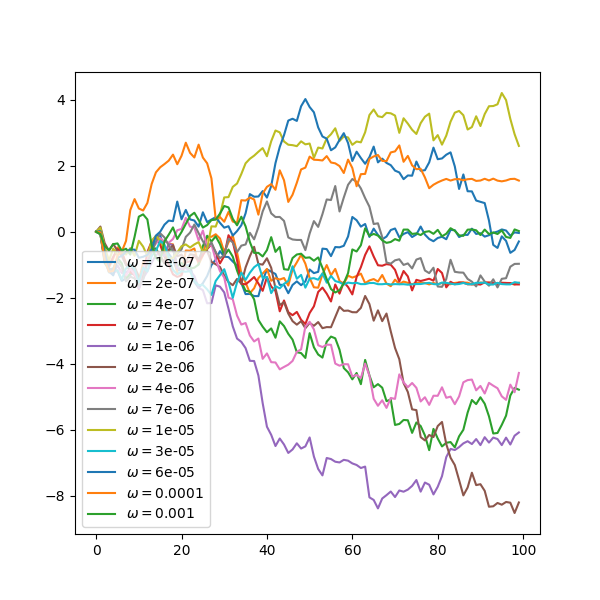
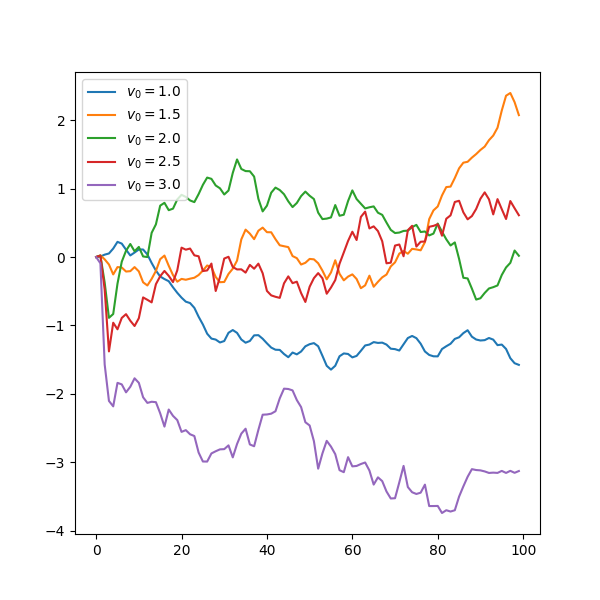
splat push

diff --git a/src/run_sim.py b/src/run_sim.py
@@ -28,9 +28,8 @@ from visualization import animate_particles
 # Create a regular expression pattern to match "yes" or "no" and their variants
 yes_no_pattern = re.compile(r'^(y|yes|yeah|yup|yea|no|n|nope)$', re.IGNORECASE)
 
-TIMESTEPS_PER_FRAME = 1000
 MANY = 20
-assert TIMESTEPS_PER_FRAME % MANY == 0
+
 
 initial_random_key = rand.PRNGKey(678912390)
 
@@ -149,6 +148,9 @@ def run_sim(
     total_time =                        sim_params.get("total_time",DEFAULT_TOTAL_TIME)
     tumble_rate =                       sim_params.get("tumble_rate",DEFAULT_TUMBLE_RATE)
     return_history =                    sim_params.get("return_history", DEFAULT_RETURN_HISTORY)
+    timesteps_per_frame =               sim_params.get("timesteps_per_frame",DEFAULT_TIMESTEPS_PER_FRAME)
+
+    assert timesteps_per_frame % MANY == 0
 
     r_history = []
     theta_history = []
@@ -202,7 +204,7 @@ def run_sim(
 
         rand_key, r, theta, centroids, angles, r_hell = sim_update_chunk
 
-        if step % int(TIMESTEPS_PER_FRAME/MANY) == 0 and return_history:
+        if step % int(timesteps_per_frame/MANY) == 0 and return_history:
             r_history.append(r)
             theta_history.append(theta)
             for i,poly in enumerate(polygons):
@@ -389,25 +391,28 @@ def main():
     angle_hist_fig, angle_hist_ax = plt.subplots(figsize=(6,6))
     com_hist_fig, com_hist_ax = plt.subplots(figsize=(6,6))
 
-    for omega in [1e-7,2e-7,4e-7,7e-7,1e-6,2e-6,4e-6,7e-6,1e-5,3e-5,6e-5,1e-4,1e-3]:
+    for v0 in [1.,1.5,2.,2.5,3.,4.]:
         sim_params = {
             "num_particles": 10000,
-            "total_time": 10.,
+            "total_time": 1000.,
             "do_animation": True,
             "return_history": True,
-            "omega": omega,
-            "v0": 1.,
+            "omega": 0.,
+            "v0": v0,
             "rotation_diffusion": 1e-3,
-            "use_jit": True
+            "use_jit": True,
+            "timesteps_per_frame": 1000
             }
 
         r_history, theta_history, poly_history, com_history, angle_history, _ = run_sim(r_0, theta_0, [glu], [c], sim_params, hell=False)
 
-        angle_hist_ax.plot(jnp.array(angle_history[0]),label=r"$\omega = $"+f"{sim_params['omega']}")
+        scan_param_title = r"$v_0 = $"+f"{sim_params['v0']}"
+
+        angle_hist_ax.plot(jnp.array(angle_history[0]),label=scan_param_title)
         angle_hist_ax.legend()
         angle_hist_fig.savefig(f"{PROJECT_DIR}/plots/angle_history.png")
 
-        com_hist_ax.plot(jnp.array(com_history[0]),label=r"$\omega = $"+f"{sim_params['omega']}")
+        com_hist_ax.plot(jnp.linalg.norm(jnp.array(com_history[0]),axis=1),label=scan_param_title+" [r^2]")
         com_hist_ax.legend()
         com_hist_fig.savefig(f"{PROJECT_DIR}/plots/com_history.png")
 
@@ -415,7 +420,7 @@ def main():
         # theta_0 = 0*theta_0 - 3*jnp.pi/4
         # r_history, theta_history, poly_history, r_hell = run_sim(r_0, theta_0, [glu1,glu2], [c1,c2], sim_params, hell=False)
 
-        animate_particles(r_history, theta_history, poly_history, DEFAULT_BOX_SIZE,title=sim_params["omega"])
+        animate_particles(r_history, theta_history, poly_history, DEFAULT_BOX_SIZE,title=scan_param_title)
 
 
 if __name__ == "__main__":

diff --git a/src/constants.py b/src/constants.py
@@ -15,6 +15,8 @@ DEFAULT_TUMBLE_RATE = 1e-4
 DEFAULT_WALL_GAMMA = 250.
 DEFAULT_WALL_ROTATIONAL_GAMMA = 25000.
 
+DEFAULT_TIMESTEPS_PER_FRAME = 500
+
 DEFAULT_GIF_FPS = 30.
 DEFAULT_DO_ANIMATION = True
 DEFAULT_RETURN_HISTORY = True
